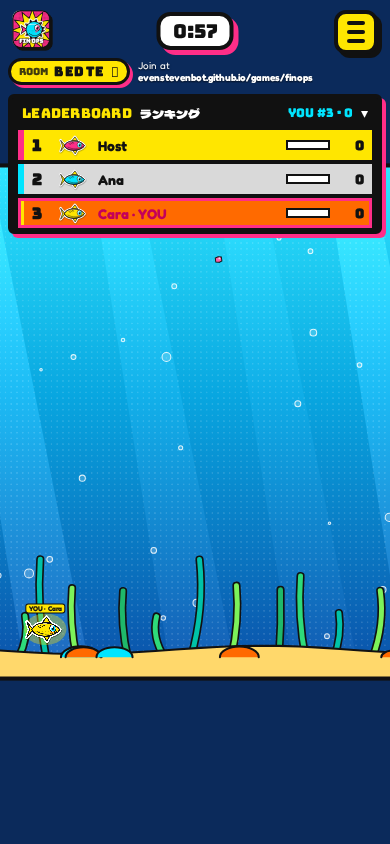
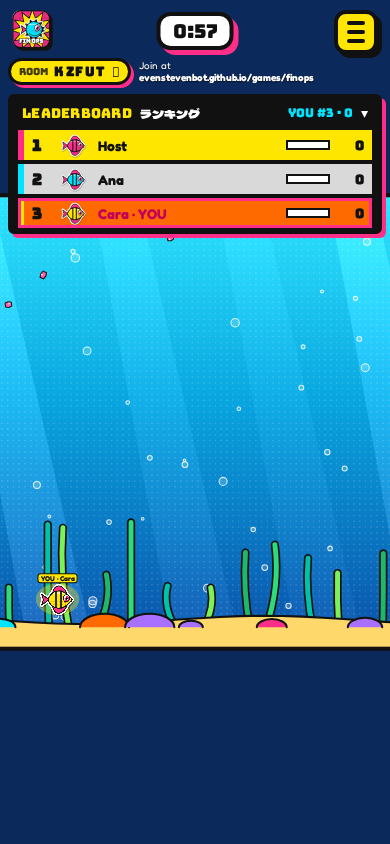
FinOps: wider mouth catch, ~12% smaller tank, compact snapshots (no fish vel/angle, food replayed from seed with drift-triggered resync)

diff --git a/games/finops/app.js b/games/finops/app.js
@@ -11,7 +11,7 @@ const { COLORS, SPECIES } = window.FinFish;
 const PREFIX = 'evenstevenbot-finops-v1-';
 const CODE_CHARS = 'ABCDEFGHJKMNPQRSTUVWXYZ';
 const MAX_PLAYERS = 20;
-const WORLD_W = 2000, WORLD_H = 1250, SAND_H = 70;
+const WORLD_W = 1760, WORLD_H = 1100, SAND_H = 70; // ~12% smaller tank (was 2000 x 1250)
 const FISH_LEN = 110, FISH_HT = FISH_LEN * 208 / 268;
 const MAX_SIZE = 2.6, GROW = 1.1;
 const TICK_MS = 33, SNAP_EVERY = 2, INTERP_MAX = 150, INTERP_MIN = 50, HOST_INTERP = 45;
@@ -179,12 +179,12 @@ const CAP_MS = REDUCED ? 90 : 150;
 const faceOf = (p) => ({ x: Math.cos(p.a) * p.f, y: Math.sin(p.a) });
 // forgiving capture: anything whose own radius overlaps the mouth (drawn mouth position, same on host + clients)
 // is sucked in from any side; a little extra reach straight ahead of the face. No vacuuming from afar.
-const lipRadius = (size) => 12 + 7 * size;
+const lipRadius = (size) => 17 + 9 * size; // widened catch area
 const PILL_CAP_R = 26; // the pill's drawn capsule half-length (PILL_R * 1.45 scale)
 function inSuction(p, m, f, itemR = FOOD_R) {
   const dx = f.x - m.x, dy = f.y - m.y, d = Math.hypot(dx, dy), touch = lipRadius(p.size) + itemR;
   if (d <= touch) return true;
-  if (d > touch * 1.35) return false;
+  if (d > touch * 1.5) return false;
   const fc = faceOf(p); return (dx * fc.x + dy * fc.y) / (d || 1) >= SUCK_COS;
 }
 
@@ -207,9 +207,19 @@ function wallFish(p) {
   if (p.y < top) { p.y = top; p.vy = Math.abs(p.vy) * 0.5; } if (p.y > bot) { p.y = bot; p.vy = -Math.abs(p.vy) * 0.5; }
 }
 // falling + fluttering + shy of nearby mouths (flakes and the pill)
+// per-flake seeded RNG (mulberry32) so clients can replay a flake's fall exactly from its spawn state
+function frnd(f) { let t = (f.rs = (f.rs + 0x6D2B79F5) | 0); t = Math.imul(t ^ (t >>> 15), t | 1); t ^= t + Math.imul(t ^ (t >>> 7), t | 61); return ((t ^ (t >>> 14)) >>> 0) / 4294967296; }
+const fr = (f, lo, hi) => (f.rs != null ? lo + frnd(f) * (hi - lo) : rand(lo, hi));
+const FDT = TICK_MS / 1000; // food always steps a fixed dt per host tick (deterministic on clients)
+function flakeFromSeed(id, k, seed) {
+  const f = { id, k, rs: seed | 0, dvx: 0, fade: 1, t: 0, y: -10 };
+  f.x = fr(f, 60, WORLD_W - 60); const fast = frnd(f) < 0.3; f.vy = fast ? fr(f, 150, 230) : fr(f, 40, 85);
+  f.drift = fr(f, -25, 25); f.wob = fr(f, 18, 55); f.wf = fr(f, 1.4, 3.2); f.ph = fr(f, 0, 6.28); f.dart = fr(f, 0.4, 1.5);
+  return f;
+}
 function moveFlake(f, dt, mouths, shy = 1) {
   f.t += dt; f.dart -= dt;
-  if (f.dart <= 0) { f.dart = rand(0.5, 1.6); f.dvx = rand(-1, 1) * rand(60, 140) * shy; }
+  if (f.dart <= 0) { f.dart = fr(f, 0.5, 1.6); f.dvx = fr(f, -1, 1) * fr(f, 60, 140) * shy; }
   f.dvx *= Math.exp(-2.5 * dt);
   let ev = 0, evy = 0, near = false;
   for (const [, m] of mouths) {
@@ -217,11 +227,13 @@ function moveFlake(f, dt, mouths, shy = 1) {
     if (d < 140) near = true;
     if (d < 95 * shy && d > 40) { const k = (1 - d / (95 * shy)) * 120 * shy; ev += dx / d * k; evy += dy / d * k * 0.4; }
   }
+  f.near = near;
   if (near) { ev *= 0.25; evy *= 0.25; f.dvx *= Math.exp(-6 * dt); } // close to a mouth: barely dodges, so it's catchable
   f.x += (f.drift + f.dvx + ev + Math.cos(f.t * f.wf + f.ph) * f.wob * f.wf * 0.5) * dt;
   f.y += (f.vy + evy) * dt;
   f.x = clamp(f.x, 15, WORLD_W - 15);
   if (f.y > WORLD_H - SAND_H + 5) f.fade -= dt * 1.5;
+  return f;
 }
 function spawnPill() {
   H.pill = { id: H.nextFood++, x: rand(160, WORLD_W - 160), y: -20, vy: rand(55, 80), drift: rand(-20, 20),
@@ -233,12 +245,9 @@ function powerDown(p, why) { if (!p.pw) return; p.pw = 0; p.size = p.base; fxAll
 function spawnFood() {
   const fp = H.set.fp !== false, fg = !!H.set.fg;
   const gold = fg && (!fp || Math.random() < 0.2); // flake types the host enabled; total rate unchanged
-  const fast = Math.random() < 0.3;
-  H.foods.push({
-    id: H.nextFood++, k: gold ? 2 : 1, x: rand(60, WORLD_W - 60), y: -10,
-    vy: fast ? rand(150, 230) : rand(40, 85), drift: rand(-25, 25),
-    wob: rand(18, 55), wf: rand(1.4, 3.2), ph: rand(0, 6.28), dart: rand(0.4, 1.5), dvx: 0, fade: 1, t: 0,
-  });
+  const seed = (Math.random() * 4294967296) | 0;
+  const f = flakeFromSeed(H.nextFood++, gold ? 2 : 1, seed); f.seed = seed; f.born = H.tick; f.nearT = -99;
+  H.foods.push(f);
 }
 function hostTick() {
   const t = now(); const dt = Math.min(0.08, (t - (H.lastT || t)) / 1000) || TICK_MS / 1000; H.lastT = t;
@@ -279,7 +288,7 @@ function hostTick() {
         if (!p || age >= CAP_MS) { f.fade = -1; continue; }
         const m = mouthOf(p), k = age / CAP_MS; f.x += (m.x - f.x) * k; f.y += (m.y - f.y) * k; continue;
       }
-      moveFlake(f, dt, mouths);
+      moveFlake(f, FDT, mouths); if (f.sh) moveFlake(f.sh, FDT, []);
       if (f.fade > 0 && f.y > 0) for (const [p, m] of mouths) {
         if (inSuction(p, m, f)) {
           f.capd = true; f.cap = p.id; f.capAt = Date.now(); p.score += f.k; p.eats++; p.lastScore = Date.now();
@@ -342,7 +351,8 @@ function hostTick() {
     pl: pl ? [pl.id, Math.round(pl.x), Math.round(pl.y), +pl.fade.toFixed(2), pl.capd ? pl.cap + 1 : 0, pl.capd ? nowMs - pl.capAt : 0] : 0,
     ev: H.ev.map((e) => e.slice(0, 5)) };
   onClientData(snap);
-  if (H.tick % SNAP_EVERY === 0) sendSnap(snap);
+  if (QS.has('test')) { (H.fpos || (H.fpos = new Map())).set(H.tick, H.foods.map((f) => [f.id, f.x, f.y, f.near ? 1 : 0])); H.fpos.delete(H.tick - 400); }
+  if (H.tick % SNAP_EVERY === 0) { const w = wireSnap(snap, all, nowMs); if (QS.has('test')) { H.bytesWire = JSON.stringify(w).length; H.bytesFull = JSON.stringify(snap).length; } sendSnap(w); }
 }
 
 function dropClient(pid) {
@@ -361,7 +371,7 @@ function hostHandle(pid, d) {
       if (!validFish(sp, c)) return;
       if (H.players.size >= MAX_PLAYERS) { e.c.send({ t: 'full' }); return; }
       if (fishTaken(sp, c)) { e.c.send({ t: 'taken' }); return; }
-      addPlayer(pid, { name, sp, c }); e.c.send({ t: 'welcome', id: pid });
+      addPlayer(pid, { name, sp, c }); e.c.send({ t: 'welcome', id: pid }); H.fullFood = 3;
       break;
     }
     case 'in': if (p) { const q = +d.q || 0; if (q && q <= p.inQ) break; p.inQ = q; p.ax = clamp(+d.x || 0, -1, 1); p.ay = clamp(+d.y || 0, -1, 1); p.inAt = Date.now(); } break;
@@ -372,17 +382,67 @@ function hostHandle(pid, d) {
 }
 function onHostConnection(c) {
   if (c.label === 'u') { // second, unordered channel from an already-connected player
-    c.on('open', () => { const pid = H.byPeer.get(c.peer), e = pid != null && H.conns.get(pid); if (!e) { try { c.close(); } catch {} return; } e.u = c;
+    c.on('open', () => { const pid = H.byPeer.get(c.peer), e = pid != null && H.conns.get(pid); if (!e) { try { c.close(); } catch {} return; } e.u = c; H.fullFood = 3;
       c.on('data', (d) => hostHandle(pid, d)); c.on('close', () => { if (e.u === c) e.u = null; }); });
     c.on('error', () => {}); return;
   }
   const pid = H.nextPid++;
   const ent = { c, u: null, lastSeen: Date.now() + 30000 }; // grace while ICE/TURN negotiates; reset on open
   H.conns.set(pid, ent); H.byPeer.set(c.peer, pid);
-  c.on('open', () => { ent.lastSeen = Date.now(); try { c.send({ t: 'hi', you: pid }); c.send(metaMsg()); } catch {} });
+  c.on('open', () => { ent.lastSeen = Date.now(); H.fullFood = 3; try { c.send({ t: 'hi', you: pid }); c.send(metaMsg()); } catch {} });
   c.on('data', (d) => hostHandle(pid, d));
   c.on('close', () => { if (H.conns.get(pid) === ent) dropClient(pid); });
   c.on('error', (er) => { if (er && er.type === 'not-open-yet') return; if (H.conns.get(pid) === ent) dropClient(pid); });
+}
+// Compact wire snapshot (network proposals 1+2): fish without velocity/angle (clients derive them), and food only as
+// full-state entries for new flakes, flakes near a mouth (their path bends), a few round-robin resyncs per snapshot,
+// or every flake right after someone connects. Clients replay the rest of each flake's fall from its seed.
+const fEnt = (f) => [f.id, f.k, f.seed, f.rs, Math.round(f.x * 10), Math.round(f.y * 10), Math.round(f.dvx * 10), Math.round(f.t * 1000), Math.round(f.dart * 1000), Math.round(f.fade * 100)];
+function wireSnap(s, all, nowMs) {
+  const w = { t: 's', n: s.n, ph: s.ph, tl: s.tl, cd: s.cd, pl: s.pl, ev: s.ev,
+    p: all.map((p) => [p.id, Math.round(p.x), Math.round(p.y), +p.size.toFixed(3), p.score, p.f, p.out ? 1 : 0, p.pw ? Math.max(1, p.pw - nowMs) : 0]) };
+  const live = H.foods.filter((f) => !f.capd), n = H.tick, win = SNAP_EVERY * 3, full = H.fullFood > 0;
+  if (full) H.fullFood--;
+  const out = [];
+  // f.sh = the host's copy of exactly what clients are replaying; only resend when the real flake has strayed from it
+  for (const f of live) {
+    const why = !f.sh ? 'new' : full ? 'full' : f.rep && n - f.sentT <= SNAP_EVERY ? 'again' : Math.hypot(f.x - f.sh.x, f.y - f.sh.y) > 0.75 ? 'drift' : '';
+    if (why) { out.push(f); f.rep = why === 'new' || why === 'drift'; // new/corrected flakes go out twice (unreliable channel)
+      if (QS.has('test')) { const W = H.why || (H.why = {}); W[why] = (W[why] || 0) + 1; } }
+  }
+  for (let i = 0, c = 0; live.length && i < live.length && c < 2; i++) { const f = live[(H.rr = ((H.rr || 0) + 1) % live.length)]; if (!out.includes(f)) { out.push(f); c++; } }
+  if (out.length) w.fs = out.map((f) => { const e = fEnt(f); f.sentT = n; f.sh = applyEnt(flakeFromSeed(e[0], e[1], e[2]), e); return e; });
+  if (full || n % 30 === 0) w.fa = live.map((f) => f.id);
+  return w;
+}
+const applyEnt = (f, e) => Object.assign(f, { rs: e[3], x: e[4] / 10, y: e[5] / 10, dvx: e[6] / 10, t: e[7] / 1000, dart: e[8] / 1000, fade: e[9] / 100 });
+function expandSnap(d) {
+  const prev = V.snaps[V.snaps.length - 1];
+  const pm = prev && prev.p ? new Map(prev.p.map((q) => [q[0], q])) : new Map();
+  const dts = prev && prev.n != null ? Math.max(1, d.n - prev.n) * FDT : SNAP_EVERY * FDT;
+  d.p = (d.p || []).map((q) => {
+    const o = pm.get(q[0]); let vx = 0, vy = 0, a = 0;
+    if (o && !q[6] && !o[9]) { vx = (q[1] - o[1]) / dts; vy = (q[2] - o[2]) / dts; a = o[6]; }
+    const tilt = clamp(Math.atan2(vy, Math.abs(vx) + 60) * 0.7, -0.55, 0.55) * q[5];
+    a += (tilt - a) * Math.min(1, dts * 8);
+    return [q[0], q[1], q[2], q[3], q[4], q[5], a, vx, vy, q[6], q[7]];
+  });
+  // food replay
+  const S = V.fsim || (V.fsim = new Map());
+  if (d.ph !== 'play') S.clear();
+  const steps = V.fN != null ? clamp(d.n - V.fN, 0, 300) : 0; V.fN = d.n;
+  for (const f of S.values()) for (let i = 0; i < steps && f.fade > 0; i++) moveFlake(f, FDT, []);
+  for (const e of d.fs || []) {
+    if (eatenIds.has(e[0])) continue;
+    const f = S.get(e[0]) || flakeFromSeed(e[0], e[1], e[2]);
+    if (!S.has(e[0])) S.set(e[0], f);
+    if (QS.has('test') && S.get(e[0]) && f.t > 0) { const dr = Math.hypot(f.x - e[4] / 10, f.y - e[5] / 10); (V.fdrift || (V.fdrift = [])).push(dr); if (V.fdrift.length > 2000) V.fdrift.shift(); }
+    applyEnt(f, e);
+  }
+  for (const e of d.ev || []) S.delete(e[0]);
+  if (d.fa) { const keep = new Set(d.fa); for (const id of S.keys()) if (!keep.has(id)) S.delete(id); }
+  d.fd = [];
+  for (const [id, f] of S) { if (f.fade <= 0) { S.delete(id); continue; } d.fd.push([id, f.x, f.y, f.k, f.fade, 0, 0]); }
 }
 // local host actions
 function hostSet(patch) {
@@ -505,6 +565,7 @@ function onClientData(d) {
         const t = now(); if (V.lastAt) { const g = Math.min(400, t - V.lastAt); V.gapM += (g - V.gapM) * 0.1; V.gapD += (Math.abs(g - V.gapM) - V.gapD) * 0.1; } V.lastAt = t;
         V.idelay = clamp(V.gapM + 2.5 * V.gapD + 4, INTERP_MIN, INTERP_MAX);
       } else V.idelay = HOST_INTERP;
+      if (role === 'client' && !d.fd) expandSnap(d);
       d.at = now(); V.snaps.push(d); if (V.snaps.length > 10) V.snaps.shift();
       V.ph = d.ph; V.tl = d.tl; V.cd = d.cd;
       for (const e of d.ev || []) onEat(e);
